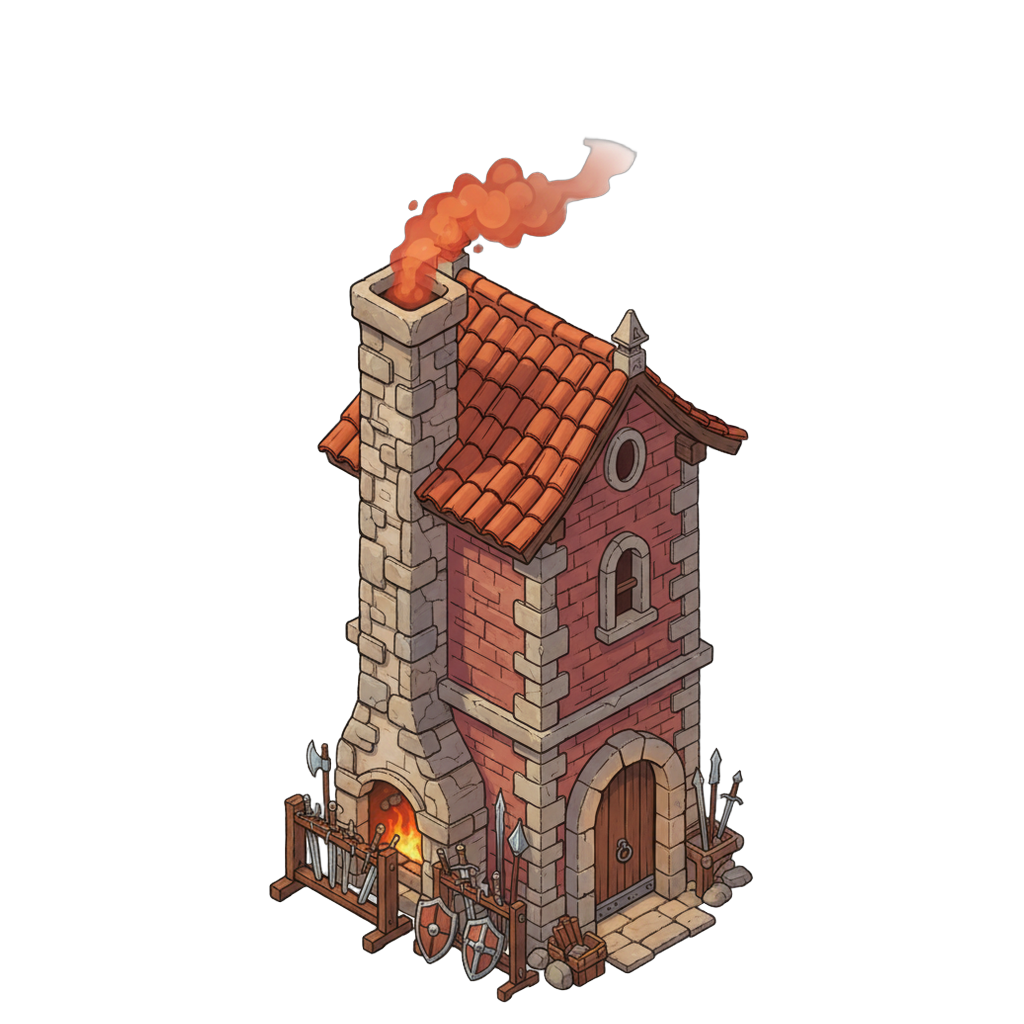
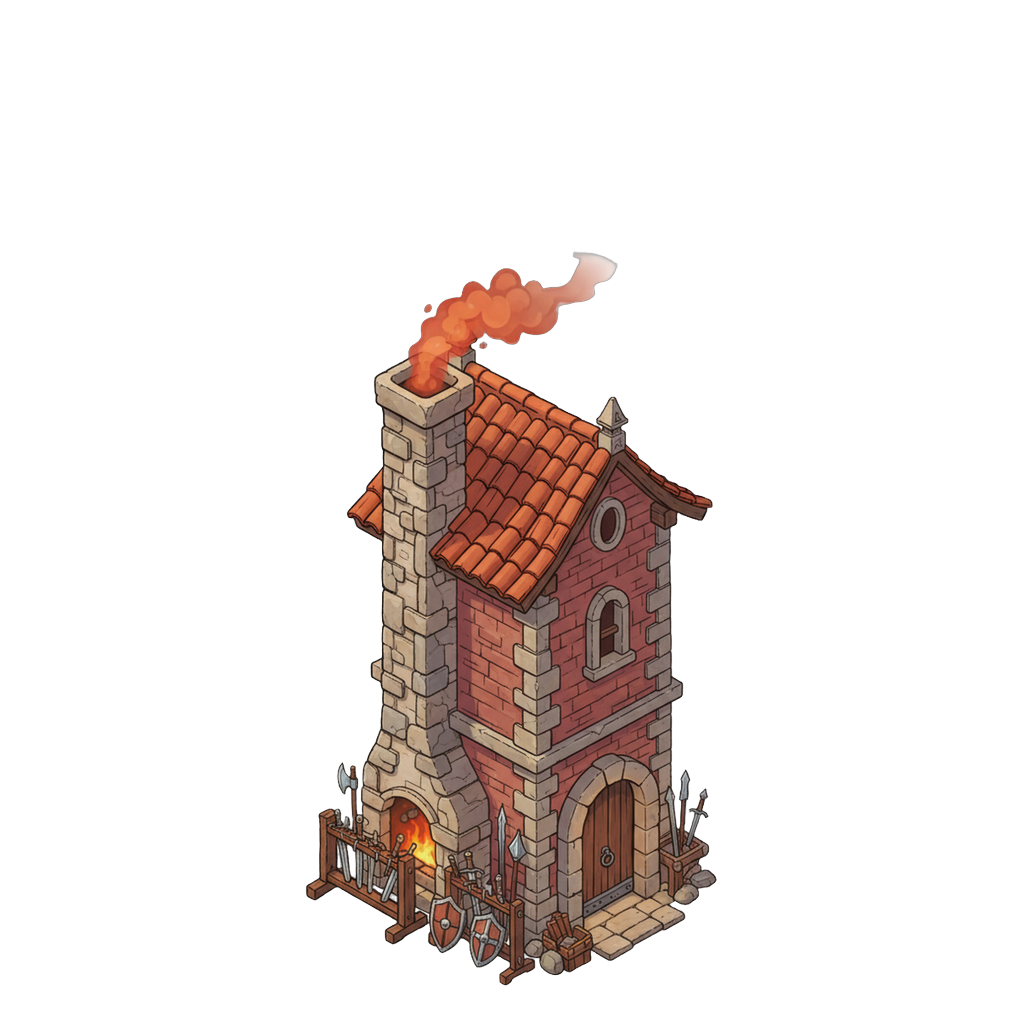
배럭 — 배경 부드러운 cobblestone + 훈련장 1층 가로형 + 건물 4칸 크기
피드백 반영:
- 배경: 진한 그리드 → subtle cobblestone (자연스러운 stone wear),
  decorative wall + trees + grass patches로 광장 분위기 강화
- 훈련장: 2층 → SINGLE-STORY HORIZONTAL (1층 가로 3칸) — 마당 X, 지붕 있는 건물
- 건물 width: 38% → 46~52% (4칸 크기)
- 위치: 주방/훈련장 bottom 24% → 48% (광장 상부 활용)
        공방 bottom 8% → 14% (전면 위치)

훈련장만 가로형 정규화(870x743 캔버스), 다른 건물 정사각(870x870).

Changed region(s): [[0.25, 0.125, 0.75, 1.0]]

diff --git a/demo/index.html b/demo/index.html
@@ -97,17 +97,17 @@
       <!-- 메인 스테이지 (배경 + 건물) — 1:1 비율 -->
       <div class="bk-stage" id="bk-stage">
         <img class="bk-bg" src="./img/barracks/bg_reboldoeux_day.png" alt="" />
-        <!-- 건물 3개 — 동일 캔버스(1024x1024) bottom-anchor 정규화.
-             stage가 frame 전체(HUD~Nav 사이) 채움. 좌/우/중하 삼각 배치, bottom% 균일. -->
-        <div class="bk-building" data-bld="kitchen" style="left:2%; bottom:24%; width:38%;">
+        <!-- 건물 3개 — 4칸 크기로 키움, 광장 상부 활용 (위로 배치).
+             훈련장은 1층 가로형(3칸) → width 더 큼. 정규화: 주방/공방 정사각, 훈련장 가로형. -->
+        <div class="bk-building" data-bld="kitchen" style="left:2%; bottom:48%; width:46%;">
           <img src="./img/barracks/bld_kitchen_t0.png" alt="🍳 주방" />
           <span class="bk-bld-label">🍳 주방 <span class="bk-bld-lv">Lv 1</span></span>
         </div>
-        <div class="bk-building" data-bld="training" style="right:2%; bottom:24%; width:38%;">
+        <div class="bk-building" data-bld="training" style="right:0%; bottom:48%; width:52%;">
           <img src="./img/barracks/bld_training_t0.png" alt="⚔ 훈련장" />
           <span class="bk-bld-label">⚔ 훈련장 <span class="bk-bld-lv">Lv 1</span></span>
         </div>
-        <div class="bk-building" data-bld="smithy" style="left:31%; bottom:8%; width:38%;">
+        <div class="bk-building" data-bld="smithy" style="left:27%; bottom:14%; width:46%;">
           <img src="./img/barracks/bld_smithy_t0.png" alt="🔨 공방" />
           <span class="bk-bld-label">🔨 공방 <span class="bk-bld-lv">Lv 1</span></span>
         </div>
